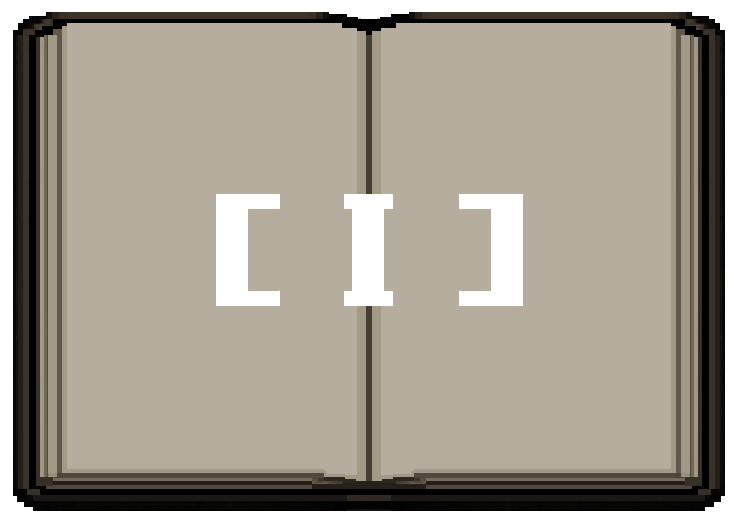
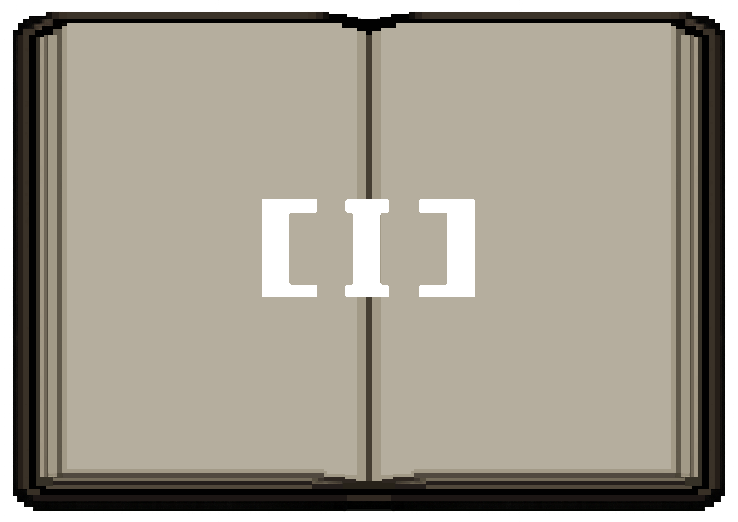
exclamation mark for unread anomalies

Changed region(s): [[0.561, 0.3678, 0.7168, 0.613], [0.2805, 0.3678, 0.4363, 0.613], [0.4675, 0.3678, 0.5298, 0.613]]

diff --git a/EarlyBirdGetsDaWorm/Journal.cpp b/EarlyBirdGetsDaWorm/Journal.cpp
@@ -8,7 +8,6 @@
 // STATE
 // ============================================================
 
-static f32 dt;
 static s8 journalFontId = -1;       // font handle used by AEGfxPrint
 static s8 symbolsFontId = -1;
 const float UI_SCALE    = 0.7f;        // journal UI bigger or smaller
@@ -31,6 +30,7 @@ constexpr int SYMPTOM_COUNT = 6;
 // ============================================================
 // DECLARATIONS
 // ============================================================
+
 // Dimensions -------------------------------------------------
 static f32 HeaderY;
 static f32 SubHeaderY;
@@ -124,6 +124,7 @@ void Journal_Initialize()
 // TEXTURES
 // ============================================================
 static AEGfxTexture* JournalIcon = nullptr;
+static AEGfxTexture* AlertIcon = nullptr;
 static AEGfxTexture* JournalBack = nullptr;
 static AEGfxTexture* JournalFront = nullptr; 
 static AEGfxTexture* TabEntry1 = nullptr;
@@ -237,27 +238,6 @@ static void DrawTab(
         SubHeader * scale,
         0.55f, 0.05f, 0.05f,
         1.0f);
-}
-
-// ============================================================
-// JOURNAL ICON
-// ============================================================
-
-void Journal_DrawSmallIcon(AEGfxVertexList* squareMesh)
-{
-    f32 iconX = AEGfxGetWinMinX() + 1500.0f;
-    f32 iconY = AEGfxGetWinMinY() + 750.0f;
-
-    f32 iconW = JournalHasUnread ? 140.0f : 100.0f;
-    f32 iconH = JournalHasUnread ? 88.0f : 63.0f;
-
-    DrawTextureMesh(squareMesh, JournalIcon, iconX, iconY, iconW, iconH, 1.0f);
-
-    if (JournalHasUnread)
-    {   
-        AEGfxPrint(journalFontId, "!", iconX + 35.0f, iconY + 20.0f, 0.8f, 1.0f, 1.0f, 1.0f, 1.0f);
-        //DrawSquareMesh(squareMesh, iconX + 35.0f, iconY + 20.0f, 18.0f, 18.0f, COLOR_RED);
-    }
 }
 
 // ============================================================
@@ -561,7 +541,7 @@ bool Journal_HasObserved(ANOMALYID id)
     return Observed[index];
 }
 
-bool Journal_HasUnread(ANOMALYID id)
+bool Journal_EvidenceHasUnread(ANOMALYID id)
 {
     if (id == ANOMALYID::None)
     {
@@ -576,6 +556,41 @@ bool Journal_HasUnread(ANOMALYID id)
     }
 
     return Unread[index];
+}
+
+bool Journal_IllnessHasUnread(ILLNESSES illness)
+{
+    for (int i = 0; i < SYMPTOM_COUNT; ++i)
+    {
+        SymptomStruct entry = GetJournalSymptomEntry(illness, i);
+
+        if (entry.anomalyId != ANOMALYID::None &&
+            Journal_EvidenceHasUnread(entry.anomalyId))
+        {
+            return true;
+        }
+    }
+
+    return false;
+}
+
+bool Journal_PageHasUnread(ILLNESSES illness, int page)
+{
+    int start = (page == 0) ? 0 : 2;
+    int end = (page == 0) ? 2 : 6;
+
+    for (int i = start; i < end; ++i)
+    {
+        SymptomStruct entry = GetJournalSymptomEntry(illness, i);
+
+        if (entry.anomalyId != ANOMALYID::None &&
+            Journal_EvidenceHasUnread(entry.anomalyId))
+        {
+            return true;
+        }
+    }
+
+    return false;
 }
 
 bool Journal_HasNewContent()
@@ -614,6 +629,7 @@ void Journal_Load()
     symbolsFontId = AEGfxCreateFont(Assets::Fonts::Buggy, 20);
     journalFontId = AEGfxCreateFont(Assets::Fonts::Handwriting1, 50);
 
+    AlertIcon = LoadTextureChecked(Assets::Equipment::AlertIcon);
     JournalIcon = LoadTextureChecked(Assets::Equipment::JournalIcon);
     JournalBack = LoadTextureChecked(Assets::Equipment::JournalBack);
     JournalFront = LoadTextureChecked(Assets::Equipment::JournalFront);
@@ -678,8 +694,10 @@ void Journal_Load()
 
 void Journal_Update()
 {
+    f32 journalDt{ (f32)AEFrameRateControllerGetFrameTime() };
+
     if (JournalHasUnread)
-        JournalAlertTimer += dt;
+        JournalAlertTimer += journalDt;
     else
         JournalAlertTimer = 0.0f;
 
@@ -805,6 +823,33 @@ void Journal_Update()
 }
 
 // ============================================================
+// JOURNAL ICON
+// ============================================================
+
+void Journal_DrawSmallIcon(AEGfxVertexList* squareMesh)
+{
+    f32 iconX = AEGfxGetWinMinX() + 1500.0f;
+    f32 iconY = AEGfxGetWinMinY() + 750.0f;
+
+    DrawTextureMesh(squareMesh, JournalIcon, iconX, iconY, 100.0f, 63.0f, 1.0f);
+
+    // Bouncing Alert Icon
+    if (JournalHasUnread && AlertIcon)
+    {
+        // amplitude                   //frequency
+        f32 bounceY = 3.0f * sinf(JournalAlertTimer * 3.5f);
+
+        DrawTextureMesh(squareMesh,
+            AlertIcon,
+            iconX + 25.0f,
+            iconY + 25.0f + bounceY,
+            25.0f,
+            25.0f,
+            1.0f);
+    }
+}
+
+// ============================================================
 // BOOK DRAW (two pages)
 // ============================================================
 void Journal_Draw(AEGfxVertexList* squareMesh)
@@ -830,6 +875,8 @@ void Journal_Draw(AEGfxVertexList* squareMesh)
     ClampSelected();
     ILLNESSES chosen = IllnessList[Selected];
     TextStruct& TextData = GetFromText[Selected];
+    bool Tab1HasUnread = Journal_PageHasUnread(chosen, 0);
+    bool Tab2HasUnread = Journal_PageHasUnread(chosen, 1);
 
     // ------------------------------------------------------------
     // Hover reset for symptom images
@@ -861,6 +908,35 @@ void Journal_Draw(AEGfxVertexList* squareMesh)
         TabX, Tab2Y,
         HoverTab2,
         RightPage == 1);
+
+    // Bouncing Alert Icon
+    if (Tab1HasUnread && AlertIcon)
+    {
+        // amplitude                   //frequency
+        f32 bounceY = 3.0f * sinf(JournalAlertTimer * 3.5f);
+
+        DrawTextureMesh(squareMesh,
+            AlertIcon,
+            TabX,
+            Tab1Y + bounceY,
+            25.0f,
+            25.0f,
+            1.0f);
+    }
+    // Bouncing Alert Icon
+    if (Tab2HasUnread && AlertIcon)
+    {
+        // amplitude                   //frequency
+        f32 bounceY = 3.0f * sinf(JournalAlertTimer * 3.5f);
+
+        DrawTextureMesh(squareMesh,
+            AlertIcon,
+            TabX,
+            Tab2Y + bounceY,
+            25.0f,
+            25.0f,
+            1.0f);
+    }
 
     // Front page
     DrawTextureMesh(squareMesh,
@@ -898,6 +974,7 @@ void Journal_Draw(AEGfxVertexList* squareMesh)
             IllnessHitH * UI_SCALE);
 
         bool selected = (i == Selected);
+        bool illnessHasUnread = Journal_IllnessHasUnread(IllnessList[i]);
 
         float scale = 1.0f;
         if (selected) scale += 0.15f;
@@ -917,6 +994,24 @@ void Journal_Draw(AEGfxVertexList* squareMesh)
                 X(LeftStartX), Y(illnessY),
                 listSelected * scale,
                 0.2f, 0.2f, 0.2f,
+                1.0f);
+        }
+
+        //// Bouncing Alert Icon
+        if (illnessHasUnread && AlertIcon)
+        {
+            // amplitude                   //frequency   f
+            f32 bounceY = 3.0f * sinf(JournalAlertTimer * 3.5f);
+
+            float textWorldX = LeftStartX * UI_SCALE;
+            float textWorldY = illnessY * UI_SCALE;
+
+            DrawTextureMesh(squareMesh,
+                AlertIcon,
+                (textWorldX - 20.0f),
+                (textWorldY + 15.0f) + bounceY,
+                25.0f,
+                25.0f,
                 1.0f);
         }
     }
@@ -980,7 +1075,7 @@ void Journal_Draw(AEGfxVertexList* squareMesh)
                 }
             }
 
-            bool hasUnread = Journal_HasUnread(symptomID);
+            bool hasUnread = Journal_EvidenceHasUnread(symptomID);
 
             if (observed && symptomTex)
             {
@@ -991,15 +1086,15 @@ void Journal_Draw(AEGfxVertexList* squareMesh)
 
                 if (hasUnread)
                 {
-                    DrawSquareMesh(squareMesh,
-                        x + imgW * 0.38f, y + imgH * 0.38f,
-                        22.0f, 22.0f,
-                        COLOR_RED);
+                              // amplitude                   //frequency
+                    f32 bounceY = 3.0f * sinf(JournalAlertTimer * 3.5f);
 
-                    AEGfxPrint(journalFontId, "!",
-                        X(x + imgW * 0.34f), Y(y + imgH * 0.30f),
-                        0.8f,
-                        1.0f, 1.0f, 1.0f,
+                    DrawTextureMesh(squareMesh,
+                        AlertIcon,
+                        (x + imgW - 120.0f),
+                        (y + imgH - 120.0f) + bounceY,
+                        25.0f,
+                        25.0f,
                         1.0f);
                 }
             }
@@ -1037,7 +1132,7 @@ void Journal_Draw(AEGfxVertexList* squareMesh)
                 }
             }
 
-            bool hasUnread = Journal_HasUnread(symptomID);
+            bool hasUnread = Journal_EvidenceHasUnread(symptomID);
 
             if (observed && symptomTex)
             {
@@ -1048,15 +1143,15 @@ void Journal_Draw(AEGfxVertexList* squareMesh)
 
                 if (hasUnread)
                 {
-                    DrawSquareMesh(squareMesh,
-                        x + imgW * 0.38f, y + imgH * 0.38f,
-                        22.0f, 22.0f,
-                        COLOR_RED);
+                    // amplitude                   //frequency
+                    f32 bounceY = 3.0f * sinf(JournalAlertTimer * 3.5f);
 
-                    AEGfxPrint(journalFontId, "!",
-                        X(x + imgW * 0.34f), Y(y + imgH * 0.30f),
-                        0.8f,
-                        1.0f, 1.0f, 1.0f,
+                    DrawTextureMesh(squareMesh,
+                        AlertIcon,
+                        (x + imgW - 120.0f),
+                        (y + imgH - 120.0f) + bounceY,
+                        25.0f,
+                        25.0f,
                         1.0f);
                 }
             }
@@ -1098,6 +1193,7 @@ void Journal_Draw(AEGfxVertexList* squareMesh)
 void Journal_Unload()
 {
     // unload textures
+    UnloadTextureSafe(AlertIcon);
     UnloadTextureSafe(JournalIcon);
     UnloadTextureSafe(JournalBack);
     UnloadTextureSafe(JournalFront);
@@ -1169,4 +1265,7 @@ bool Journal_IsOpen()
 void Journal_Clear()
 {
     std::fill(Observed.begin(), Observed.end(), false);
+    std::fill(Unread.begin(), Unread.end(), false);
+    JournalHasUnread = false;
+    JournalAlertTimer = 0.0f;
 }

diff --git a/EarlyBirdGetsDaWorm/assets_catalog.hpp b/EarlyBirdGetsDaWorm/assets_catalog.hpp
@@ -12,6 +12,7 @@ namespace Assets
         constexpr const char* PagerIcon = "Assets/Equipment/PagerIcon.png";
         constexpr const char* Pager = "Assets/Equipment/Pager.png";
 
+        constexpr const char* AlertIcon = "Assets/Equipment/Alert.png";
         constexpr const char* JournalIcon = "Assets/Equipment/JournalIcon.png";
         constexpr const char* JournalBack = "Assets/Equipment/JournalBack.png";
         constexpr const char* JournalFront = "Assets/Equipment/JournalFront.png";

diff --git a/EarlyBirdGetsDaWorm/journal.hpp b/EarlyBirdGetsDaWorm/journal.hpp
@@ -15,7 +15,11 @@ void Journal_ReportAnomaly(ANOMALYID id);
 
 bool Journal_HasObserved(ANOMALYID id);
 
-bool Journal_HasUnread(ANOMALYID id);
+bool Journal_EvidenceHasUnread(ANOMALYID id);
+
+bool Journal_IllnessHasUnread(ILLNESSES illness);
+
+bool Journal_PageHasUnread(ILLNESSES illness, int page);
 
 bool Journal_HasNewContent();
 
